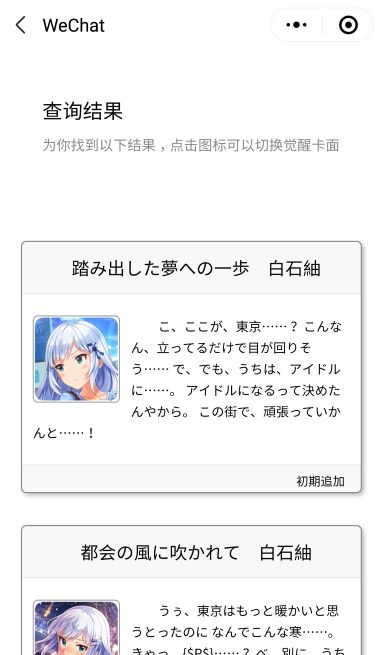
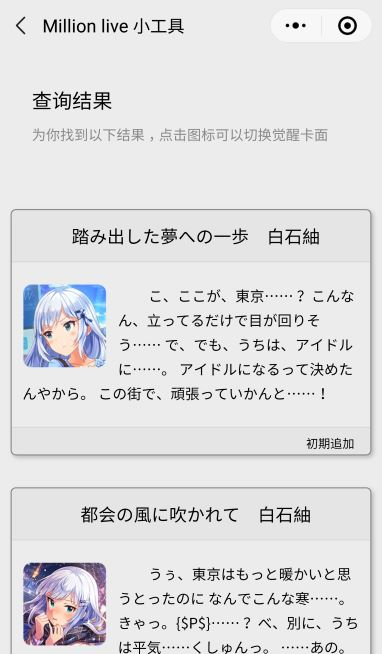
UI ajusts

diff --git a/pages/index/index.js b/pages/index/index.js
@@ -57,6 +57,7 @@ Page({
       }
     })
   },
+  
   /**
    * 监听选择器
    */

diff --git a/README.md b/README.md
@@ -1,12 +1,9 @@
 # millionlive_miniprogram
-查询millionlive卡片的小程序
-
-##感谢 [Princess — Public REST API](https://api.matsurihi.me/docs/) 提供的api
-
-
-###选择画面
+### 查询millionlive卡片的小程序
+## 感谢 [Princess — Public REST API](https://api.matsurihi.me/docs/) 提供的api
+### 选择画面
 ![选择画面](./screenshots/选择画面.jpg "查询")
-###查询结果
+### 查询结果
 ![查询结果](./screenshots/查询结果.jpg "结果")
------
-#####更多功能开发中
+-------------
+##### 更多功能开发中
